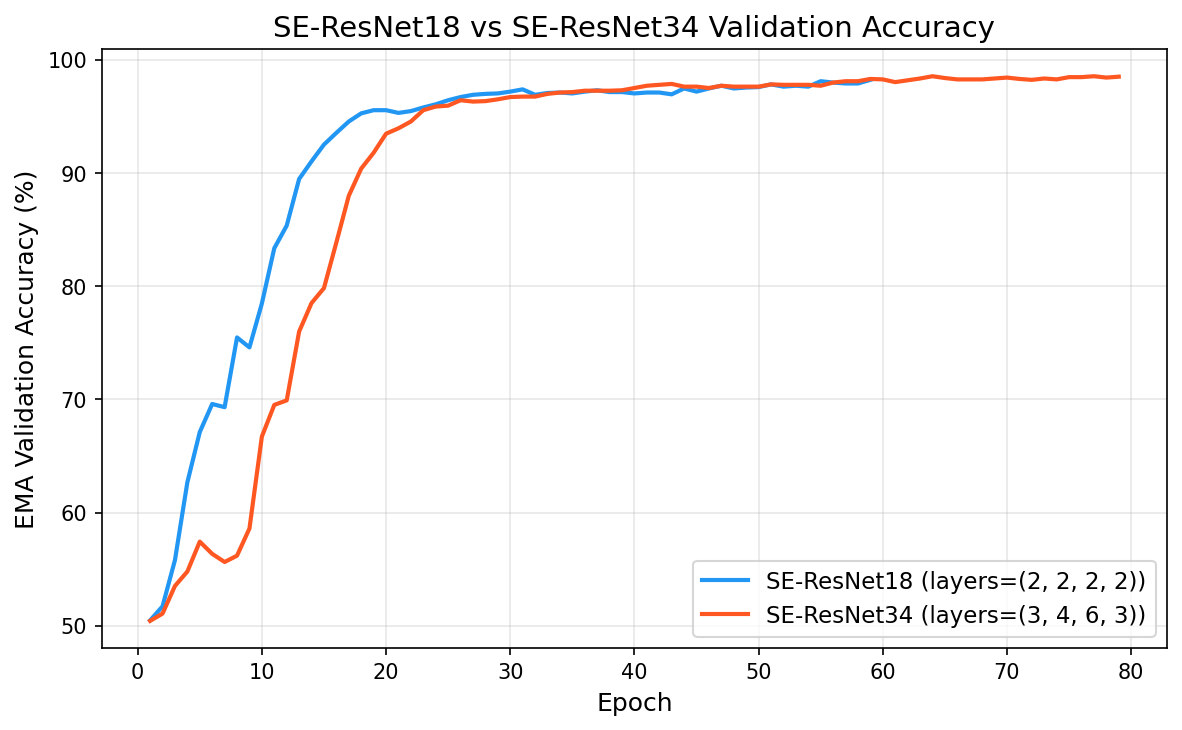
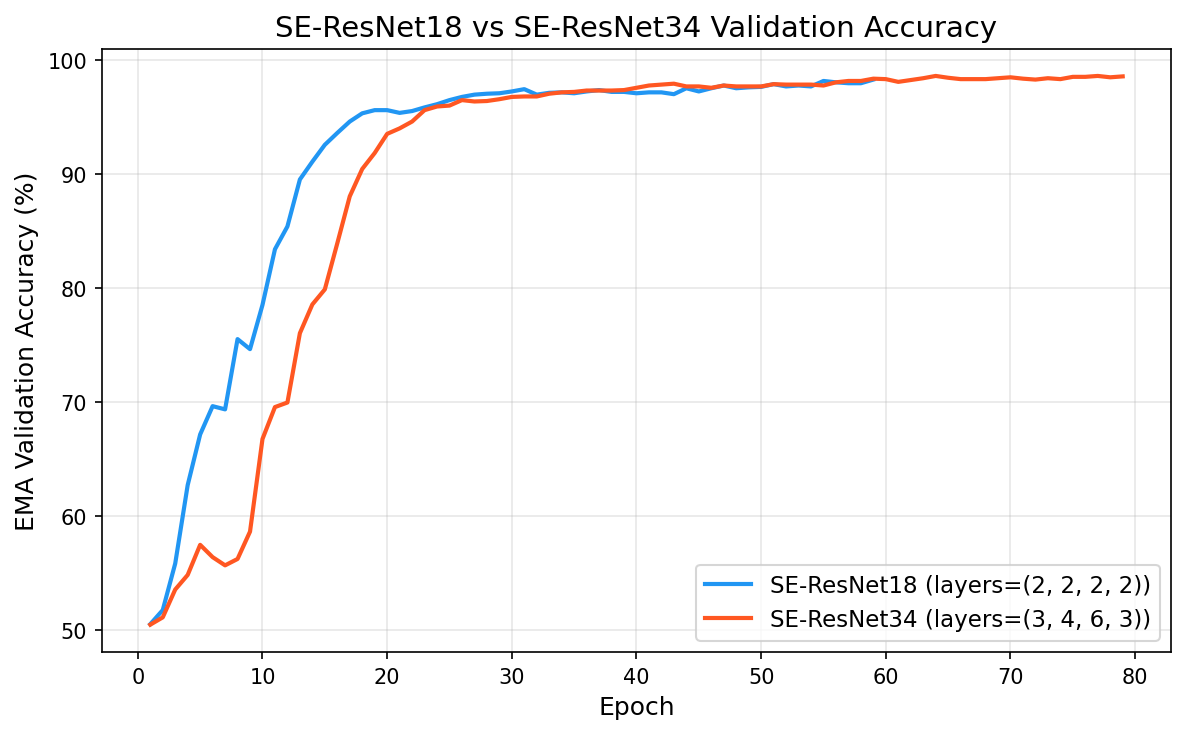
更新报告：混淆矩阵、数据修正、训练曲线
- 添加 SE-ResNet18 和 SE-ResNet34 的混淆矩阵图片
- 修正 SE-ResNet18 验证集指标（基于 benchmark）
- 更新训练曲线图片（基于 train.log）
- 修改 evaluate_scratch.py 标题文字

diff --git a/evaluate_scratch.py b/evaluate_scratch.py
@@ -100,7 +100,7 @@ def evaluate():
     )
     plt.xlabel("Predicted")
     plt.ylabel("Actual")
-    plt.title("Confusion Matrix (SE-ResNet scratch)")
+    plt.title("Confusion Matrix (SEResNet18)")
     plt.tight_layout()
 
     out_dir = PROJECT_ROOT / "logs"